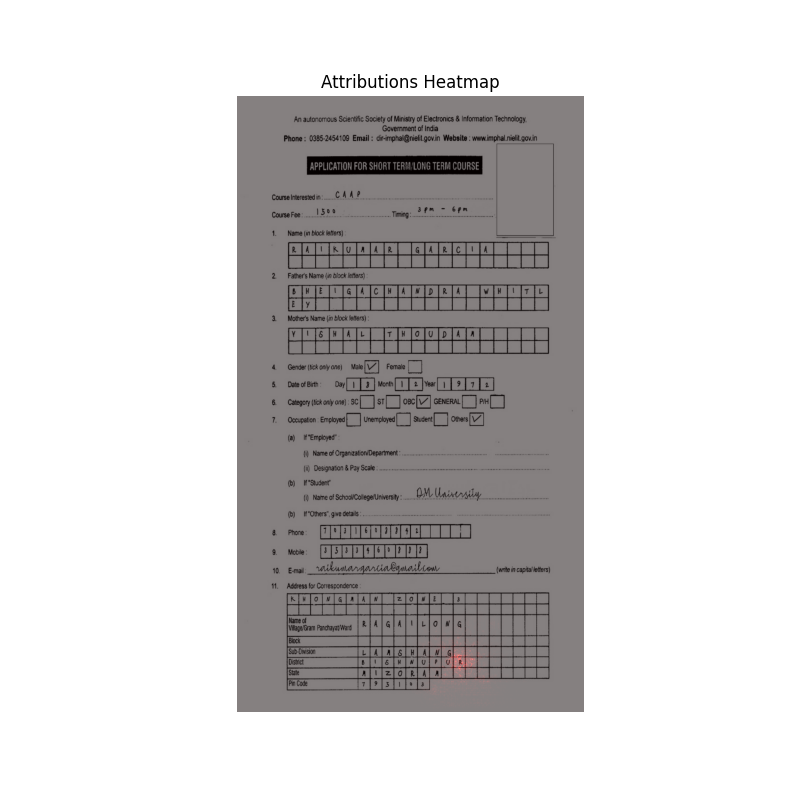
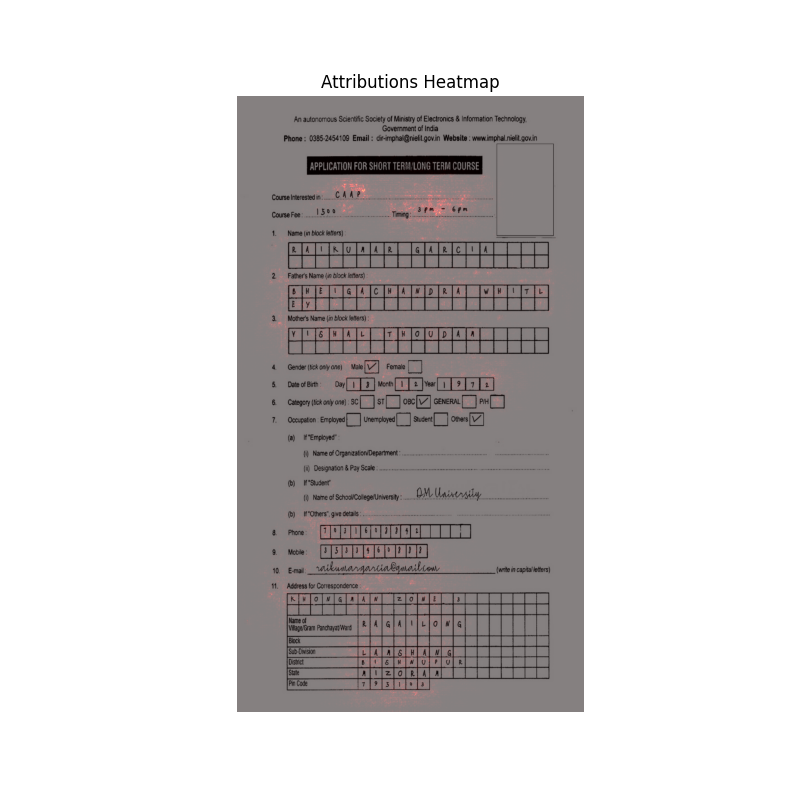
Second commit

diff --git a/main.py b/main.py
@@ -35,14 +35,13 @@ def preprocess_image(image_path):
     input_img = input_img.unsqueeze(0)  # Add a batch dimension
     return image, input_img
 
-# Define a custom forward function that extracts the desired output
-def custom_forward(input_tensor):
-    outputs = model(input_tensor)  # Get the output dictionary
-    if len(outputs[0]['scores']) > 0:
-        # Return the first score for attribution wrapped in a tensor
-        return outputs[0]['scores'][0].unsqueeze(0)  # Convert to a 1D tensor with one element
-    else:
-        return torch.tensor([0.0])  # Return a tensor with one element if there are no detections
+# Define a custom forward function that extracts the desired output for a specific detection
+def custom_forward(input_tensor, index):
+        outputs = model(input_tensor)
+        if len(outputs[0]['scores']) > index:
+            return outputs[0]['scores'][index].unsqueeze(0)
+        else:
+            return torch.tensor([0.0])
 
 # Specify the path to your image file
 image_path = 'form.jpeg'
@@ -53,18 +52,23 @@ original_image, input_tensor = preprocess_image(image_path)
 # Define the baseline, often zeros or some other meaningful baseline for the domain
 baseline = torch.zeros_like(input_tensor)
 
-# Instantiate the IntegratedGradients object with the custom forward function
-integrated_gradients = IntegratedGradients(custom_forward)
+# Initialize the total attributions tensor
+total_attributions = torch.zeros_like(input_tensor)
 
-# Compute attributions
-attributions = integrated_gradients.attribute(input_tensor, baseline, n_steps=10)
-
-# Convert attributions to numpy and aggregate over channels
-attributions_np = attributions.squeeze().detach().numpy()
+# Compute attributions for each detection and accumulate them
+outputs = model(input_tensor)
+for i in range(len(outputs[0]['scores'])):
+        integrated_gradients = IntegratedGradients(lambda x: custom_forward(x, i))
+        attributions = integrated_gradients.attribute(input_tensor, baseline, n_steps=5)
+        total_attributions += attributions
+                    
+# Convert the accumulated attributions to numpy and aggregate over channels
+attributions_np = total_attributions.squeeze().detach().numpy()
 attributions_sum = np.sum(np.abs(attributions_np), axis=0)
 
 # Normalize the attributions to [0, 1] for better visualization
 attributions_norm = (attributions_sum - attributions_sum.min()) / (attributions_sum.max() - attributions_sum.min())
+
 
 # Create a heatmap of attributions
 plt.figure(figsize=(8, 8))
